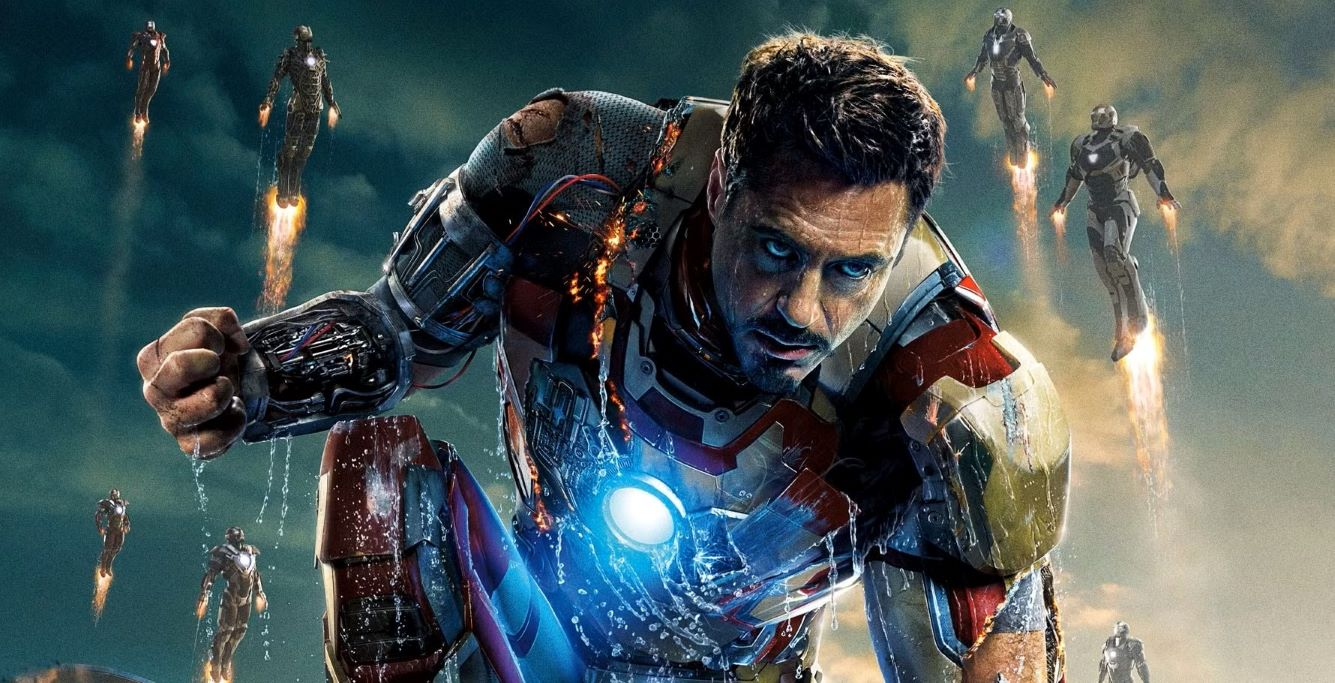
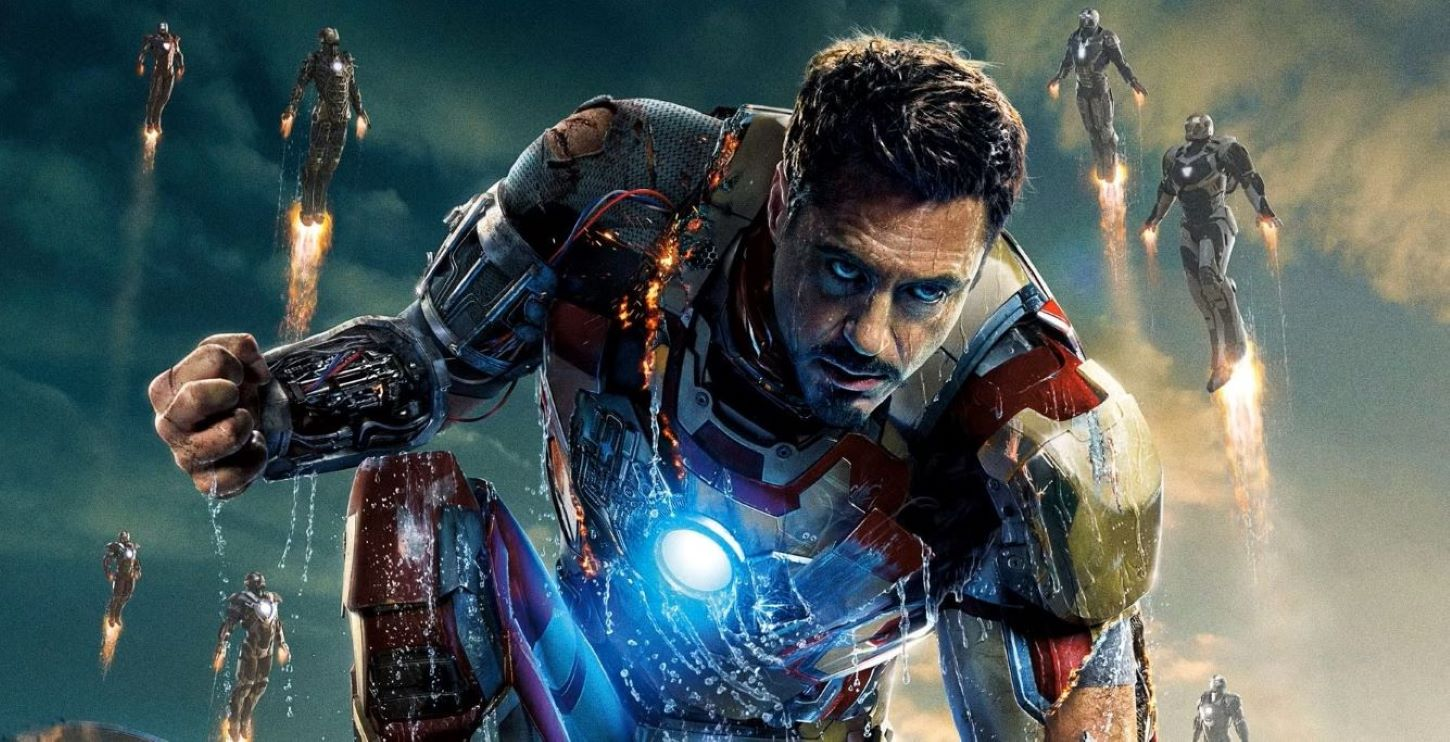
Initial Changes

diff --git a/styles.css b/styles.css
@@ -5,44 +5,33 @@
 }
 
 #container {
-  position: relative;
+  background-image: url("./Iron-Man-3.jpg");
   height: 100vh;
-  overflow: hidden;
-}
-
-#img-div {
-  min-width: 600px;
   width: 100%;
-  height: 100%;
-}
-
-#image {
-  display: block;
-  width: 100%;
-  height: 100%;
   object-fit: cover;
   object-position: center;
+  overflow: hidden;
+  position: relative;
 }
 
-#img-caption {
+#caption {
   position: absolute;
-  top: 70%;
-  left: 70%;
-  transform: translate(-50%, -50%);
+  top: 75%;
+  left: 8%;
   text-align: center;
-  font-family: Arial, Helvetica, sans-serif;
-  background: rgba(0, 0, 0, 0.5);
   color: #ddcfb8;
-  font-family: "My Soul", cursive;
+  font-family: Italianno, cursive;
   font-weight: 400;
   font-style: normal;
-  font-size: 1.5em;
+  font-size: 1.75em;
+  text-shadow: 0px 0px 2px black;
+  word-spacing: 5px;
 }
 
-.overlay {
+#overlay {
   position: absolute;
   top: 30%;
-  left: 49%;
+  left: 50%;
   transform: translate(-50%, -50%);
   text-align: center;
   color: #ddcfb8;
@@ -74,13 +63,21 @@
   text-align: center;
 }
 
-/*change the background image for smaller screens*/
 @media screen and (max-width: 600px) {
+  #container {
+    background-image: url("./Iron-Man-2.jpg");
+    width: 100%;
+    height: 100vh;
+    object-fit: cover;
+    object-position: right;
+  }
+
   .overlay {
     position: absolute;
     top: 23%;
   }
-  #img-caption {
+  #caption {
     left: 50%;
+    transform: translate(-50%, -50%);
   }
 }

diff --git a/index.html b/index.html
@@ -8,34 +8,20 @@
     <link rel="preconnect" href="https://fonts.googleapis.com" />
     <link rel="preconnect" href="https://fonts.gstatic.com" crossorigin />
     <link
-      href="https://fonts.googleapis.com/css2?family=My+Soul&display=swap"
-      rel="stylesheet"
-    />
-    <link
       href="https://fonts.googleapis.com/css2?family=Italianno&display=swap"
       rel="stylesheet"
     />
     <!-- give it an og title img website and more-->
   </head>
+
   <body>
     <main id="main">
       <div id="container">
-        <div class="overlay">
+        <div id="overlay">
           <h1 id="title">Tony Stark</h1>
           <p>(1970-2023)</p>
         </div>
-        <figure id="img-div">
-          <img
-            src="./Iron-Man-3.jpg"
-            alt="Iron Man rising from the water"
-            id="image"
-          />
-          <figcaption id="img-caption">
-            "Yeah. Big man in a suit of armor. Take that off, what are you?"
-            <br />
-            "Genius, billionaire, playboy, philanthropist."
-          </figcaption>
-        </figure>
+        <p id="caption">Genius, billionaire, playboy, philanthropist.</p>
       </div>
 
       <div id="timeline">
